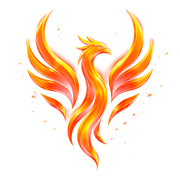
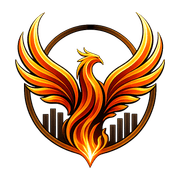
fix(brand): every Phoenix mark is the owner's ringed emblem
The owner named the ringed phoenix over rising bars as the original Phoenix logo on 2026-09-11 and asked for every Phoenix mark in the system to be audited and fixed. An audit of every tracked image, every base64 picture in code and every picture inside tracked Office files and PDFs, checked by eye, found five live surfaces on other drawings: the browser tab icon, the installed-app and iPhone home-screen icons, the desktop notification, the Excel exports' corner mark, and the public marketing guide. All now draw the ringed emblem, with the icon cache keys bumped so browsers refetch. Nine unused drawings that are not the logo are removed from public/. tests/phoenix-official-logo.test.ts compares each surface with the emblem by image hash and was proved to fail on every old drawing.

diff --git a/src/lib/export/phoenix-pdf-assets.ts b/src/lib/export/phoenix-pdf-assets.ts
@@ -1,5 +1,6 @@
 // AUTO-GENERATED brand asset. Source: public/brand/phoenix-rail-mark.png (phoenix emblem on black).
 // Inlined as base64 so PDF export embeds the mark without runtime filesystem/static-asset reads
 // (reliable on Vercel serverless). Regenerate by re-encoding the source PNG if the brand mark changes.
+// Re-encoded 2026-09-11: it still held an older glow-bird drawing, not the owner's ringed emblem.
 export const PHOENIX_RAIL_MARK_PNG_BASE64 =
[2 lines of base64/hex data omitted]

diff --git a/tests/phoenix-official-logo.test.ts b/tests/phoenix-official-logo.test.ts
@@ -1,0 +1,204 @@
+import assert from "node:assert/strict";
+import { existsSync, readdirSync, readFileSync } from "node:fs";
+import path from "node:path";
+
+import sharp from "sharp";
+
+// ─────────────────────────────────────────────────────────────────────────────
+// THE OFFICIAL PHOENIX LOGO IS THE RINGED EMBLEM — the phoenix inside a ring, over rising bars.
+//
+// The owner, 2026-09-11, sending that mark: "This is the original contract logo of Phoenix. So fix
+// here and deep audit everywhere in the system and fix with the correct logo." The same night two
+// document attempts had carried other Phoenix drawings that sat in `public/brand/` beside the real
+// one — a bird with no ring, and a brand-sheet lockup reading PEOPLE • PERFORMANCE • INTELLIGENCE —
+// and the browser tab, the phone home-screen icon, the desktop notification and the Excel exports'
+// corner mark were all still wearing a glowing bird that is not the logo at all.
+//
+// WHY A PICTURE TEST, NOT A FILE-NAME TEST. Every wrong mark had a plausible name
+// (`phoenix-main-logo.png`, `phoenix-required-brand.png`), and the Excel mark was a base64 string no
+// name search can see. So each surface is compared with the official emblem by a 64-bit difference
+// hash. Measured when this was written: every correct surface sat 0–5 bits from the reference, and
+// every wrong drawing it replaced sat 17–30 bits away.
+//
+// WHAT IT PINS
+//   1. the reference emblem itself, by its own hash — so swapping the reference cannot make every
+//      other check agree with a wrong mark;
+//   2. a negative control — the Sato mark must read as DIFFERENT, or the comparator is blind and
+//      every pass below is vacuous;
+//   3. the browser and app icons, the marks the app shell draws, the email signatures, the camera
+//      watermark, the notification icon and the Excel exports' embedded mark;
+//   4. that the retired drawings are gone from `public/` and no code path points at them.
+//
+// A red here is a wrong logo reaching users. Fix the ASSET, never the hash: the reference hash moves
+// only when the owner changes the logo.
+// ─────────────────────────────────────────────────────────────────────────────
+
+const OFFICIAL_EMBLEM = "public/brand/identity-strip-emblem.png";
+
+/** Difference hash of the official emblem flattened on white and on black, measured 2026-09-11. */
+const OFFICIAL_HASH = { onBlack: "55cc69692f5b0f0e", onWhite: "b20e96c4e8d0c879" } as const;
+
+/** Slack for a resampler or libvips upgrade re-rounding the reference itself. */
+const REFERENCE_DRIFT_BITS = 4;
+
+/** At most this many bits apart is the same mark. Correct surfaces measured 0–5, wrong ones 17–30. */
+const SAME_MARK_BITS = 10;
+
+const WHITE = "#ffffff";
+const BLACK = "#000000";
+
+/** Drawings that are NOT the logo, removed 2026-09-11. None may come back, and nothing may point at one. */
+const RETIRED = [
+  "brand/phoenix-favicon-transparent.png",
+  "brand/phoenix-icon-transparent.png",
+  "brand/phoenix-logo-reference.png",
+  "brand/phoenix-main-logo.png",
+  "brand/phoenix-primary-icon.png",
+  "brand/phoenix-primary-logo.png",
+  "brand/phoenix-required-brand.png",
+  "brand/sfe-logo.png",
+  "assets/branding/phoenix-mindset-banner.png",
+] as const;
+
+async function differenceHash(input: string | Buffer, background: string): Promise<string> {
+  const flat = await sharp(input).flatten({ background }).png().toBuffer();
+  let framed = flat;
+  try {
+    // Trim the uniform border, so the padding a mark has inside its own canvas does not decide it.
+    framed = await sharp(flat).trim({ threshold: 24 }).png().toBuffer();
+  } catch {
+    framed = flat;
+  }
+  const grey = await sharp(framed).resize(9, 8, { fit: "fill" }).grayscale().raw().toBuffer();
+  let hex = "";
+  for (let y = 0; y < 8; y++) {
+    let byte = 0;
+    for (let x = 0; x < 8; x++) byte = (byte << 1) | (grey[y * 9 + x] > grey[y * 9 + x + 1] ? 1 : 0);
+    hex += byte.toString(16).padStart(2, "0");
+  }
+  return hex;
+}
+
+function hammingBits(a: string, b: string): number {
+  let bits = 0;
+  for (let i = 0; i < a.length; i += 2) {
+    let v = Number.parseInt(a.slice(i, i + 2), 16) ^ Number.parseInt(b.slice(i, i + 2), 16);
+    while (v) {
+      bits += v & 1;
+      v >>= 1;
+    }
+  }
+  return bits;
+}
+
+function icoEntries(file: string): { png: Buffer; size: number }[] {
+  const buf = readFileSync(file);
+  const entries: { png: Buffer; size: number }[] = [];
+  for (let i = 0; i < buf.readUInt16LE(4); i++) {
+    const at = 6 + i * 16;
+    const offset = buf.readUInt32LE(at + 12);
+    entries.push({ png: buf.subarray(offset, offset + buf.readUInt32LE(at + 8)), size: buf[at] || 256 });
+  }
+  return entries;
+}
+
+function textFilesUnder(dir: string): string[] {
+  if (!existsSync(dir)) return [];
+  const files: string[] = [];
+  for (const entry of readdirSync(dir, { withFileTypes: true })) {
+    const full = path.join(dir, entry.name);
+    if (entry.isDirectory()) {
+      if (entry.name === "node_modules" || entry.name.startsWith(".")) continue;
+      files.push(...textFilesUnder(full));
+    } else if (/\.(ts|tsx|js|mjs|cjs|jsx|json|html|css|sql|toml)$/.test(entry.name)) {
+      files.push(full);
+    }
+  }
+  return files;
+}
+
+export async function runPhoenixOfficialLogoTests() {
+  const referenceOnWhite = await differenceHash(OFFICIAL_EMBLEM, WHITE);
+  const referenceOnBlack = await differenceHash(OFFICIAL_EMBLEM, BLACK);
+  assert.ok(
+    hammingBits(referenceOnWhite, OFFICIAL_HASH.onWhite) <= REFERENCE_DRIFT_BITS
+      && hammingBits(referenceOnBlack, OFFICIAL_HASH.onBlack) <= REFERENCE_DRIFT_BITS,
+    `${OFFICIAL_EMBLEM} is no longer the emblem the owner named — every check below compares against it, so a swapped reference would pass a wrong logo everywhere`,
+  );
+
+  const satoBits = hammingBits(await differenceHash("public/brand/sato-pharma-logo-on-light.png", WHITE), referenceOnWhite);
+  assert.ok(
+    satoBits > SAME_MARK_BITS + 4,
+    `the comparator reads the Sato mark as the Phoenix emblem (${satoBits} bits apart) — it can no longer tell two marks apart, so every pass below would be vacuous`,
+  );
+
+  const sameMark = async (label: string, input: string | Buffer, background: string) => {
+    const reference = background === BLACK ? referenceOnBlack : referenceOnWhite;
+    const bits = hammingBits(await differenceHash(input, background), reference);
+    assert.ok(
+      bits <= SAME_MARK_BITS,
+      `${label} is not the ringed Phoenix emblem (${bits} bits from it, where the same mark is at most ${SAME_MARK_BITS}) — the owner's original logo is the phoenix inside a ring over rising bars`,
+    );
+  };
+
+  // The browser tab, the installed app and the iPhone home screen.
+  await sameMark("app/icon.png, the browser-tab and installed-app icon", "app/icon.png", WHITE);
+  await sameMark("app/apple-icon.png, the iPhone home-screen icon", "app/apple-icon.png", WHITE);
+  const favicon = icoEntries("app/favicon.ico");
+  assert.deepEqual(
+    favicon.map((entry) => entry.size).sort((a, b) => a - b),
+    [16, 32, 48, 64],
+    "favicon.ico carries exactly the 16/32/48/64 sizes app/layout.tsx declares for it",
+  );
+  for (const entry of favicon) {
+    // Sixteen pixels cannot hold the ring and the bars apart, so below 32 the hash measures noise
+    // (the correct 16 px entry reads 14 bits). That entry is held to its size above, not its picture.
+    if (entry.size >= 32) await sameMark(`app/favicon.ico at ${entry.size}px`, entry.png, WHITE);
+  }
+
+  // The marks the app shell draws — read from the brand config, so a repointed key is checked too.
+  const settings = readFileSync("src/config/system-settings.ts", "utf8");
+  const configured = new Map(
+    [...settings.matchAll(/\b(iconLogo|loginEmblem|adminRailMark|adminSidebarLockup):\s*"([^"]+)"/g)].map((m) => [m[1] ?? "", m[2] ?? ""] as const),
+  );
+  for (const key of ["iconLogo", "loginEmblem", "adminRailMark", "adminSidebarLockup"]) {
+    const src = configured.get(key);
+    assert.ok(src, `system-settings.ts no longer names ${key}, so this test can no longer see the mark the app shell draws`);
+    assert.ok(existsSync(`public${src}`), `${key} points at ${src}, which is not in public/ — the app shell would draw a broken image`);
+  }
+  await sameMark("the brand config's iconLogo", `public${configured.get("iconLogo")}`, WHITE);
+  await sameMark("the brand config's loginEmblem", `public${configured.get("loginEmblem")}`, WHITE);
+  await sameMark("the brand config's adminRailMark", `public${configured.get("adminRailMark")}`, BLACK);
+  // The lockup sets the wordmark beside the emblem, so the emblem is the lockup's left square.
+  const lockup = `public${configured.get("adminSidebarLockup")}`;
+  const lockupHeight = (await sharp(lockup).metadata()).height ?? 0;
+  const lockupEmblem = await sharp(lockup).extract({ height: lockupHeight, left: 0, top: 0, width: lockupHeight }).png().toBuffer();
+  await sameMark("the emblem in the brand config's adminSidebarLockup", lockupEmblem, BLACK);
+
+  // Everywhere the mark leaves the app.
+  await sameMark("the desktop notification icon", "public/brand/phoenix-notification-icon.png", WHITE);
+  assert.match(
+    readFileSync("src/lib/nav-badge-store.ts", "utf8"),
+    /icon:\s*"\/brand\/phoenix-notification-icon\.png"/,
+    "the Action Center desktop notification draws the notification icon — the favicon is 64px at most and blurs at notification size",
+  );
+  await sameMark("the HR email signature", "public/assets/branding/phoenix-hr-email-signature.png", WHITE);
+  await sameMark("the small HR email signature", "public/assets/branding/phoenix-hr-signature-small.png", WHITE);
+  await sameMark("the camera evidence watermark", "public/brand/phoenix-camera-watermark.png", WHITE);
+
+  const assets = readFileSync("src/lib/export/phoenix-pdf-assets.ts", "utf8");
+  const quote = assets.indexOf('"');
+  const exportMark = Buffer.from(assets.slice(quote + 1, assets.indexOf('"', quote + 1)), "base64");
+  await sameMark("the Excel exports' corner mark (PHOENIX_RAIL_MARK_PNG_BASE64)", exportMark, BLACK);
+
+  // The retired drawings stay retired.
+  for (const retired of RETIRED) {
+    assert.ok(!existsSync(`public/${retired}`), `public/${retired} is back — it is not the Phoenix logo, and it was removed so no session reaches for it again`);
+  }
+  const pointers: string[] = [];
+  for (const file of ["src", "app", "public", "lib", "scripts", "supabase"].flatMap(textFilesUnder)) {
+    const text = readFileSync(file, "utf8");
+    for (const retired of RETIRED) if (text.includes(retired)) pointers.push(`${file} -> ${retired}`);
+  }
+  assert.deepEqual(pointers, [], "a code path points at a retired Phoenix drawing, which would render a broken image or a wrong logo");
+}

diff --git a/tests/run-tests.ts b/tests/run-tests.ts
@@ -1579,6 +1579,7 @@ import { runLeaveRequestCodesTests } from "./leave-request-codes.test.ts";
 
 import { runManagerAreaRegionGuardTests } from "./manager-area-region-guard.test.ts";
 import { runDataBackupWorkbookTests } from "./data-backup-workbook.test.ts";
+import { runPhoenixOfficialLogoTests } from "./phoenix-official-logo.test.ts";
 
 const testDurationsMs: { name: string; durationMs: number }[] = [];
 
@@ -5222,6 +5223,11 @@ await runTest(
 await runTest(
   "the custody receipt prices each item and totals only the rows handed over, where a blank is never a zero and a settled record cannot be re-priced",
   runCustodyItemValuesTests,
+);
+
+await runTest(
+  "every Phoenix mark the system draws — browser and app icons, app shell, notification, email signature, Excel exports — is the owner's ringed emblem, and the retired drawings stay gone",
+  runPhoenixOfficialLogoTests,
 );
 
 const totalMs = testDurationsMs.reduce((sum, t) => sum + t.durationMs, 0);

diff --git a/app/layout.tsx b/app/layout.tsx
@@ -63,10 +63,10 @@ export const metadata: Metadata = {
   title: systemIdentity.appName,
   description: systemIdentity.description,
   icons: {
-    apple: [{ type: "image/png", sizes: "180x180", url: "/apple-icon.png?v=phoenix-transparent-3" }],
+    apple: [{ type: "image/png", sizes: "180x180", url: "/apple-icon.png?v=phoenix-ringed-1" }],
     icon: [
-      { sizes: "16x16 32x32 48x48 64x64", url: "/favicon.ico?v=phoenix-transparent-3" },
-      { type: "image/png", sizes: "512x512", url: "/icon.png?v=phoenix-transparent-3" },
+      { sizes: "16x16 32x32 48x48 64x64", url: "/favicon.ico?v=phoenix-ringed-1" },
+      { type: "image/png", sizes: "512x512", url: "/icon.png?v=phoenix-ringed-1" },
     ],
   },
   // manifest.json + appleWebApp: iOS Safari only supports Web Push (16.4+) for a site

diff --git a/src/lib/nav-badge-store.ts b/src/lib/nav-badge-store.ts
@@ -108,7 +108,7 @@ function applyCount(src: string, newCount: number, overdue: boolean): void {
     } else if (Notification.permission === "granted") {
       new Notification("Action Center", {
         body: "New items are awaiting your approval.",
-        icon: "/favicon.ico",
+        icon: "/brand/phoenix-notification-icon.png",
       });
     }
   }

diff --git a/public/marketing-guide.html b/public/marketing-guide.html
@@ -165,7 +165,7 @@
 <div class="cover">
   <div class="ci">
     <div class="c-brand">
-      <img src="/brand/phoenix-primary-icon.png" alt="Phoenix"/>
+      <img src="/brand/phoenix-bird-icon.png" alt="Phoenix"/>
       <div class="c-brand-label">Phoenix Workforce · Employee Portal</div>
     </div>
     <div class="c-pill">User Guide</div>
